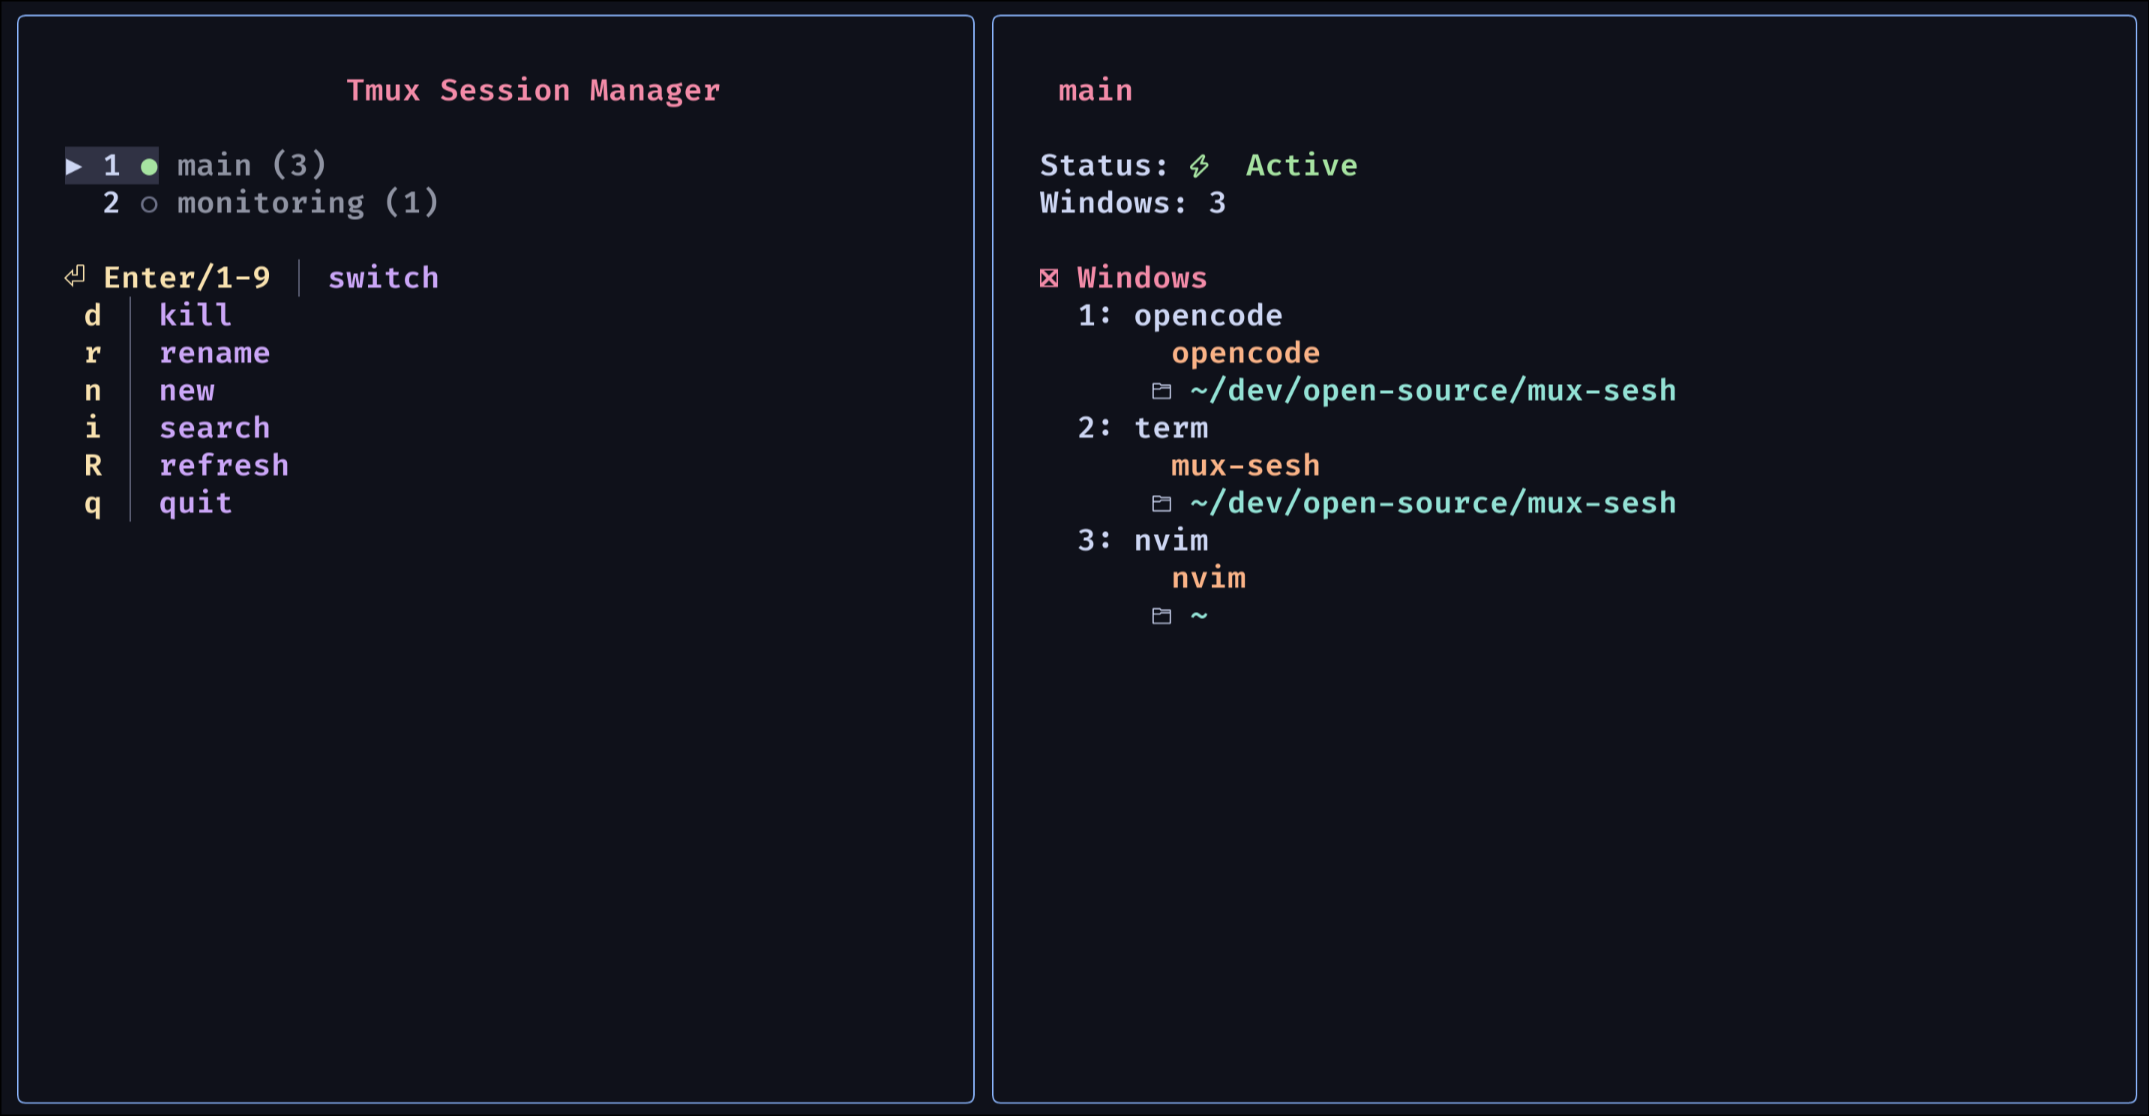
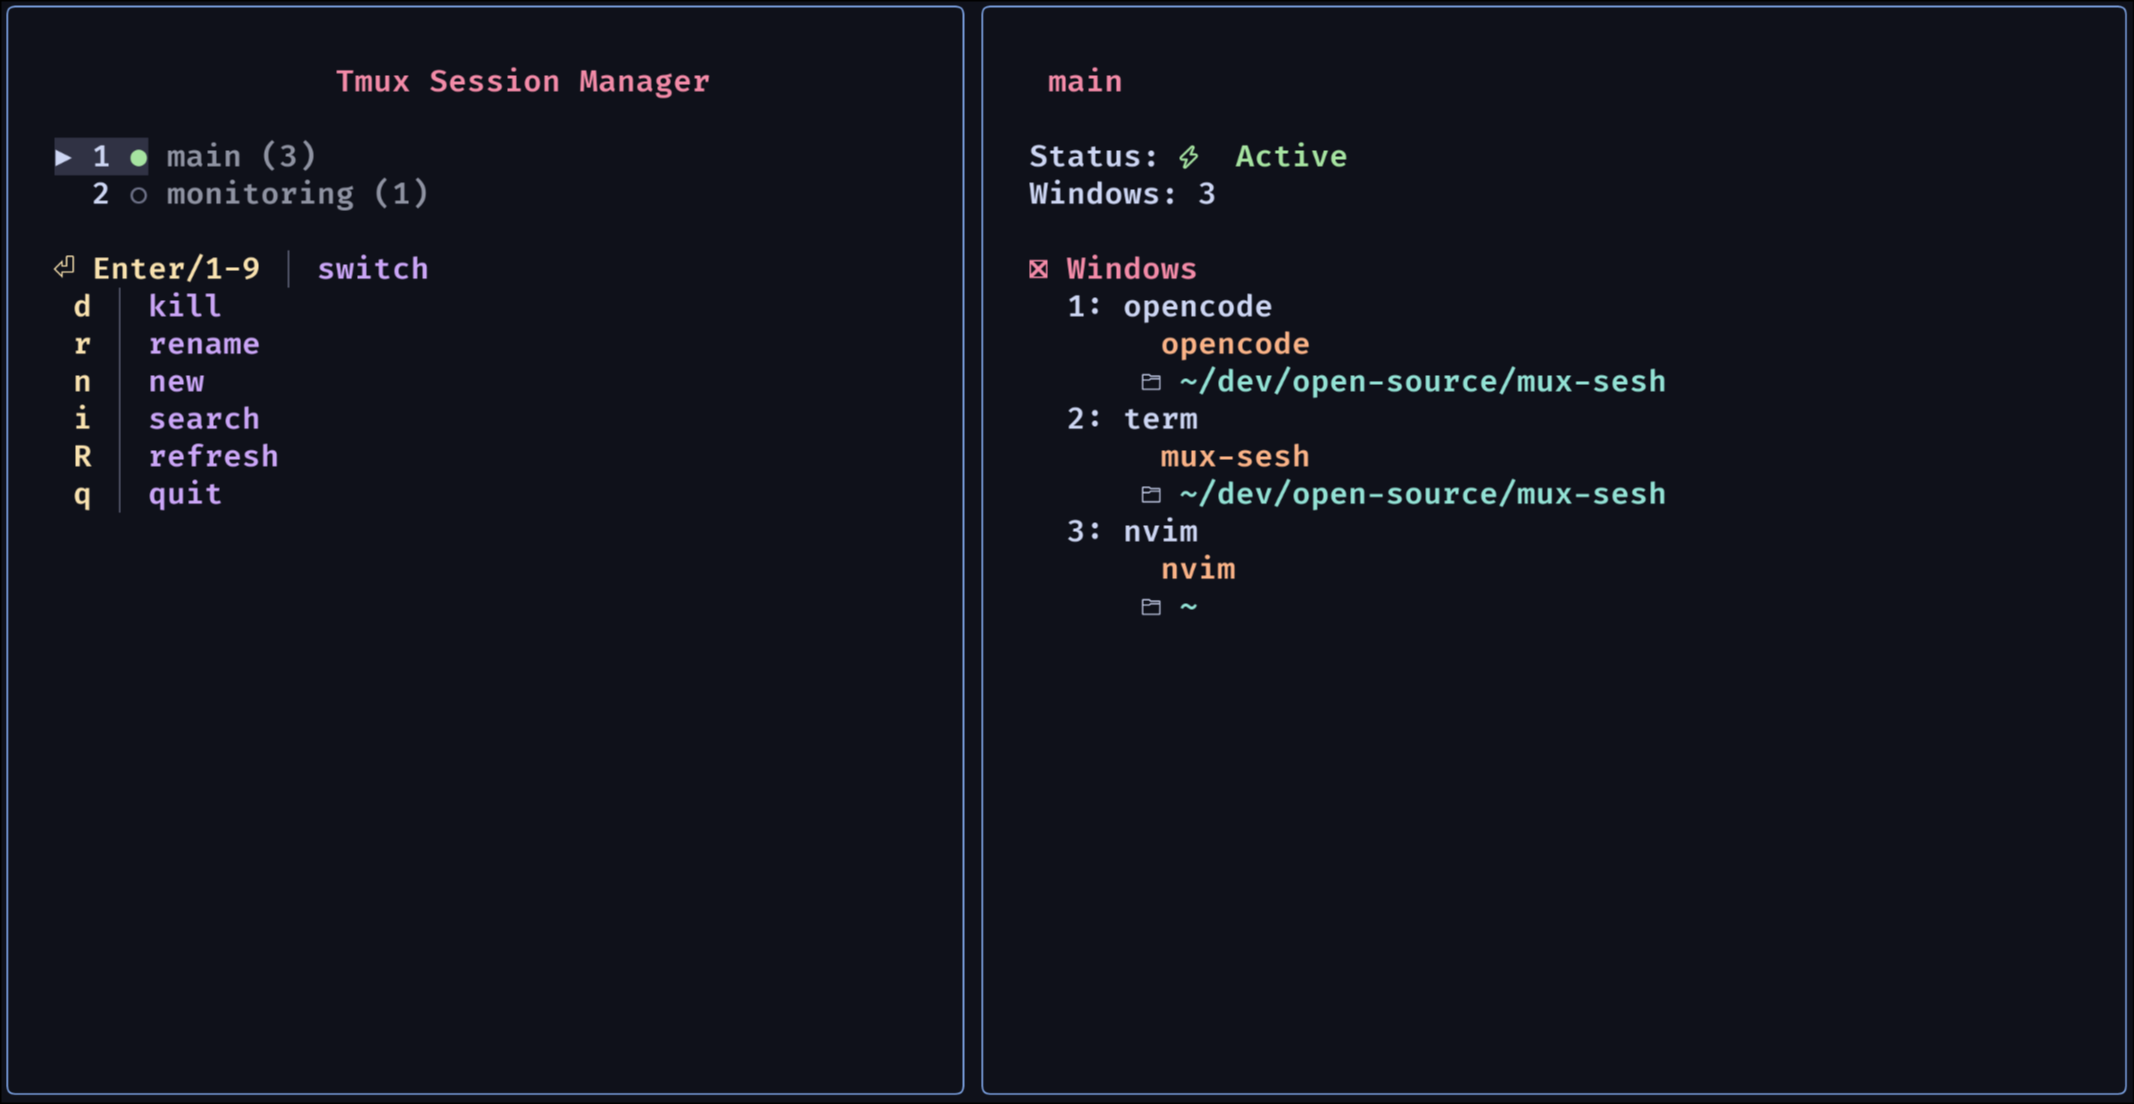
fix: screenshot

diff --git a/main.go b/main.go
@@ -673,7 +673,7 @@ func (m model) View() string {
 		}
 	default:
 		keybinds = []string{
-			formatKeybind("⏎ Enter/1-9", "switch"),
+			formatKeybind("Enter/1-9", "switch"),
 			formatKeybind(" d", "kill"),
 			formatKeybind(" r", "rename"),
 			formatKeybind(" n", "new"),
